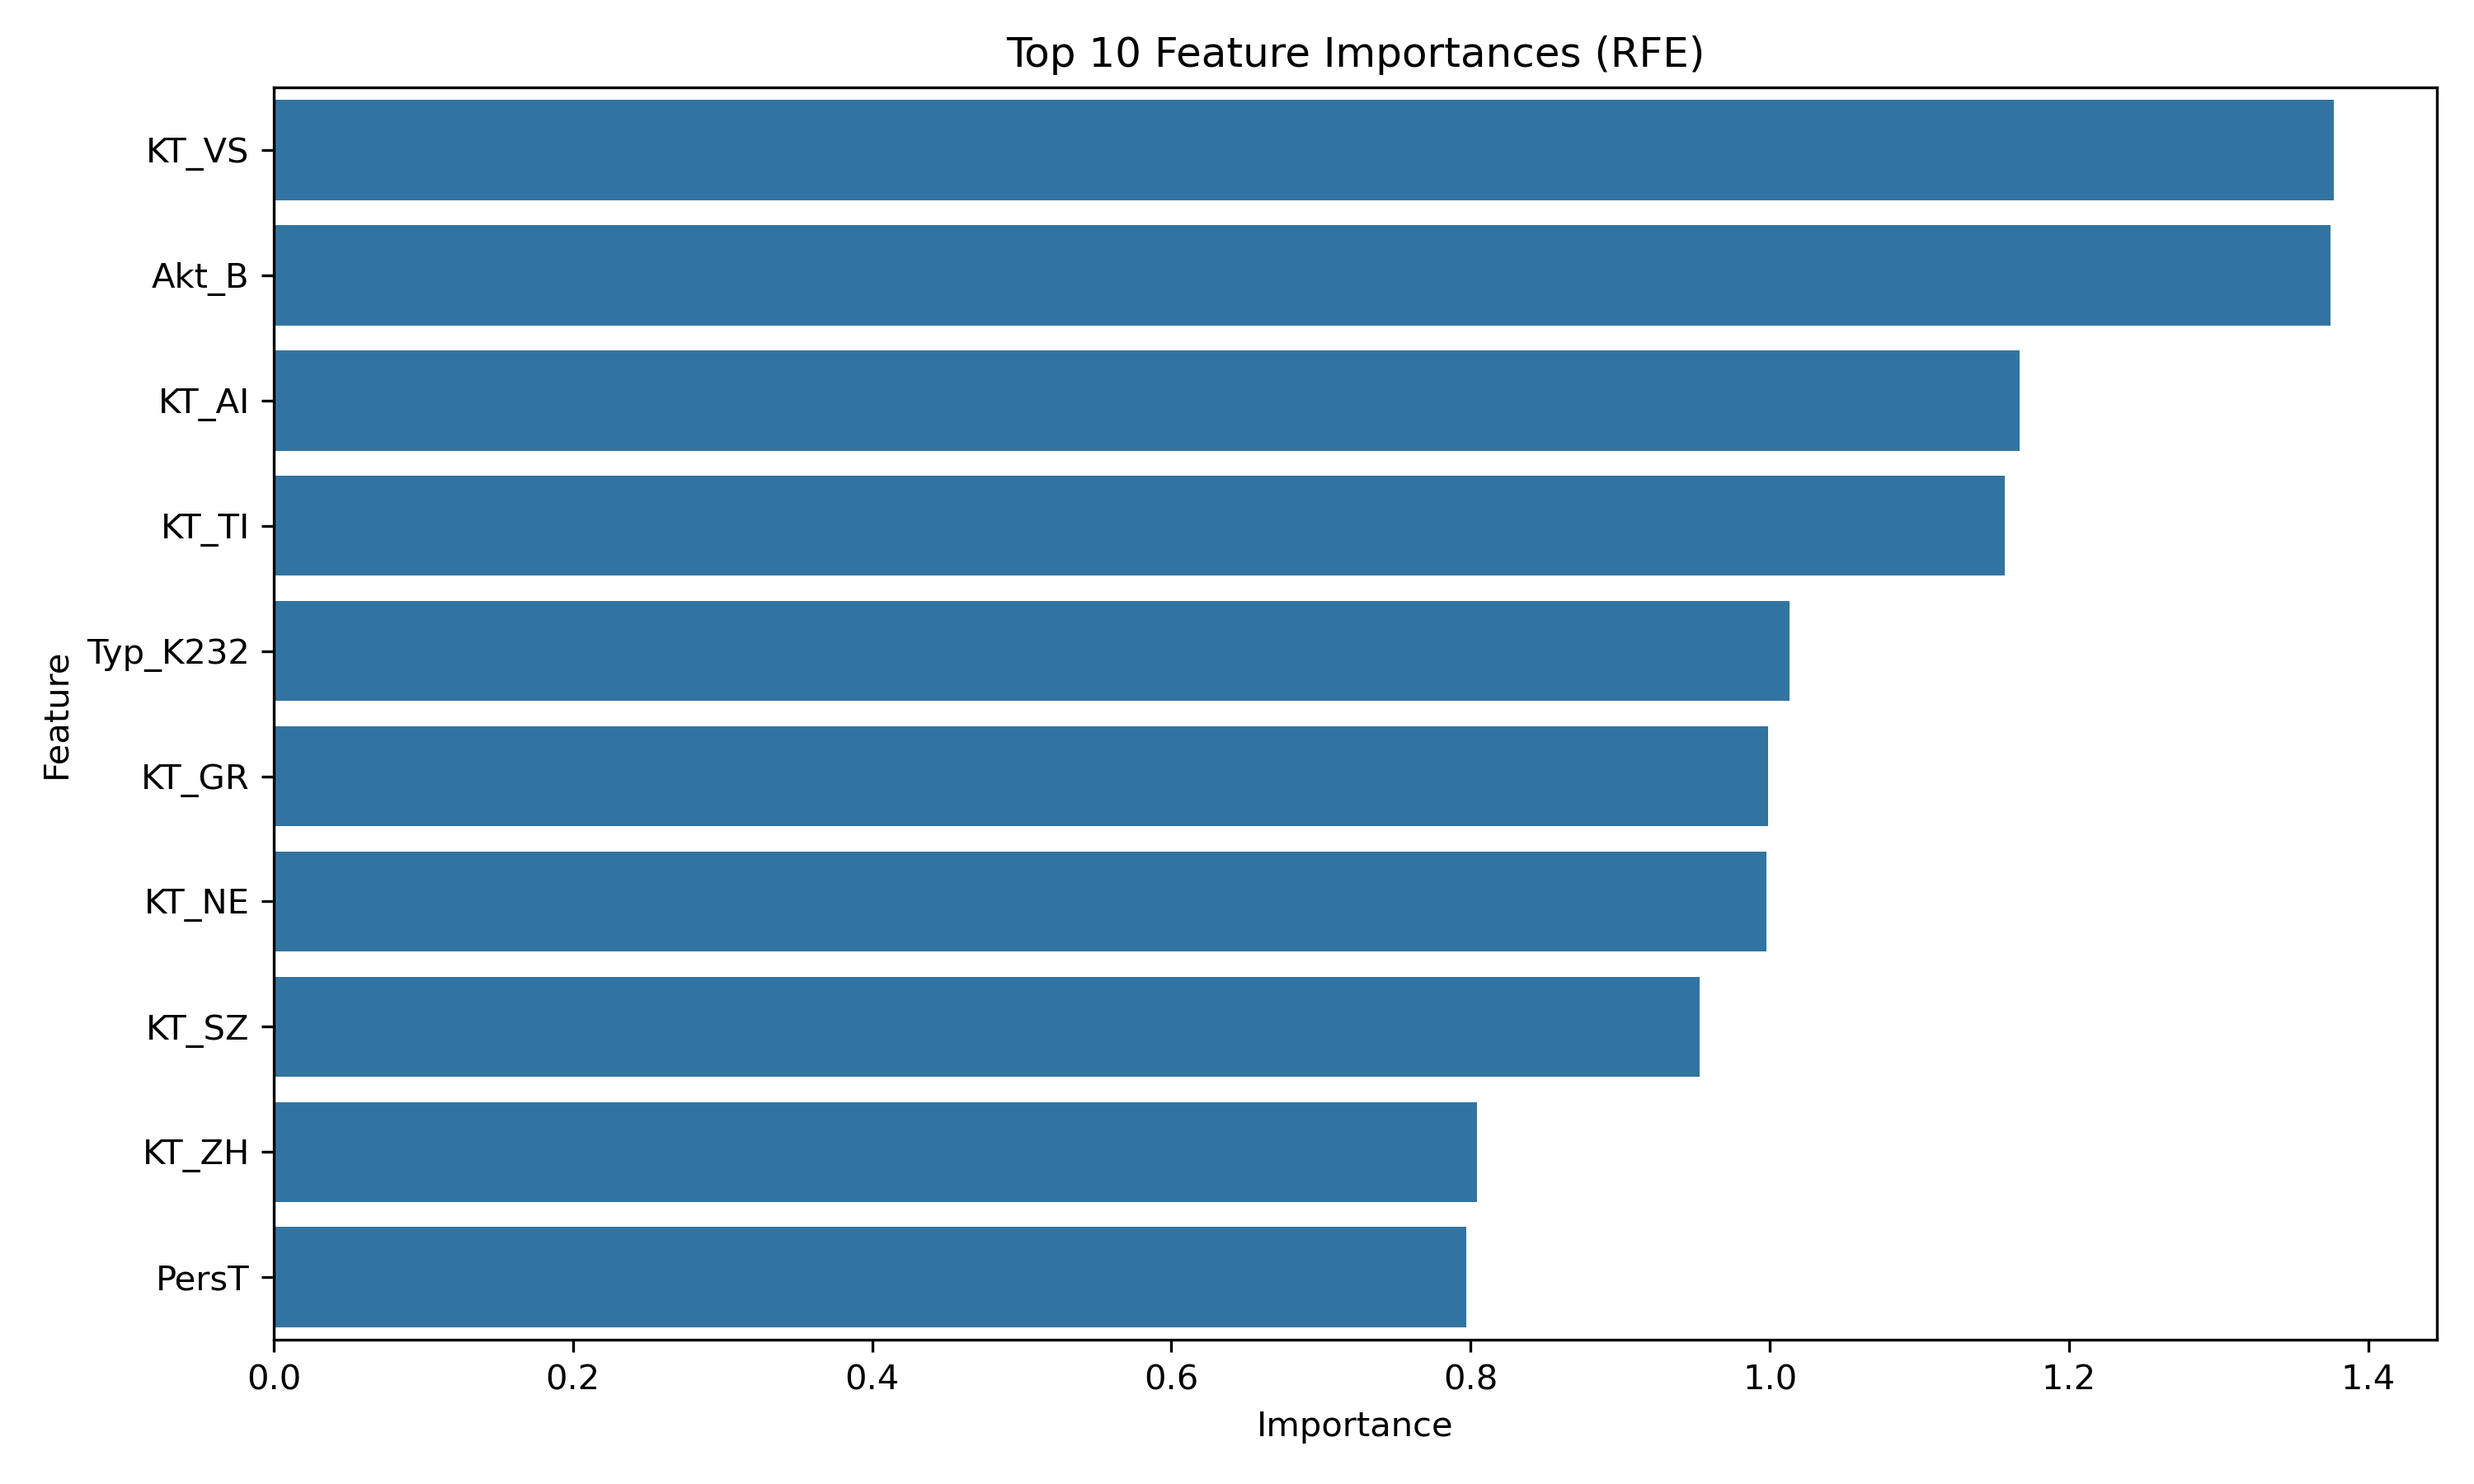
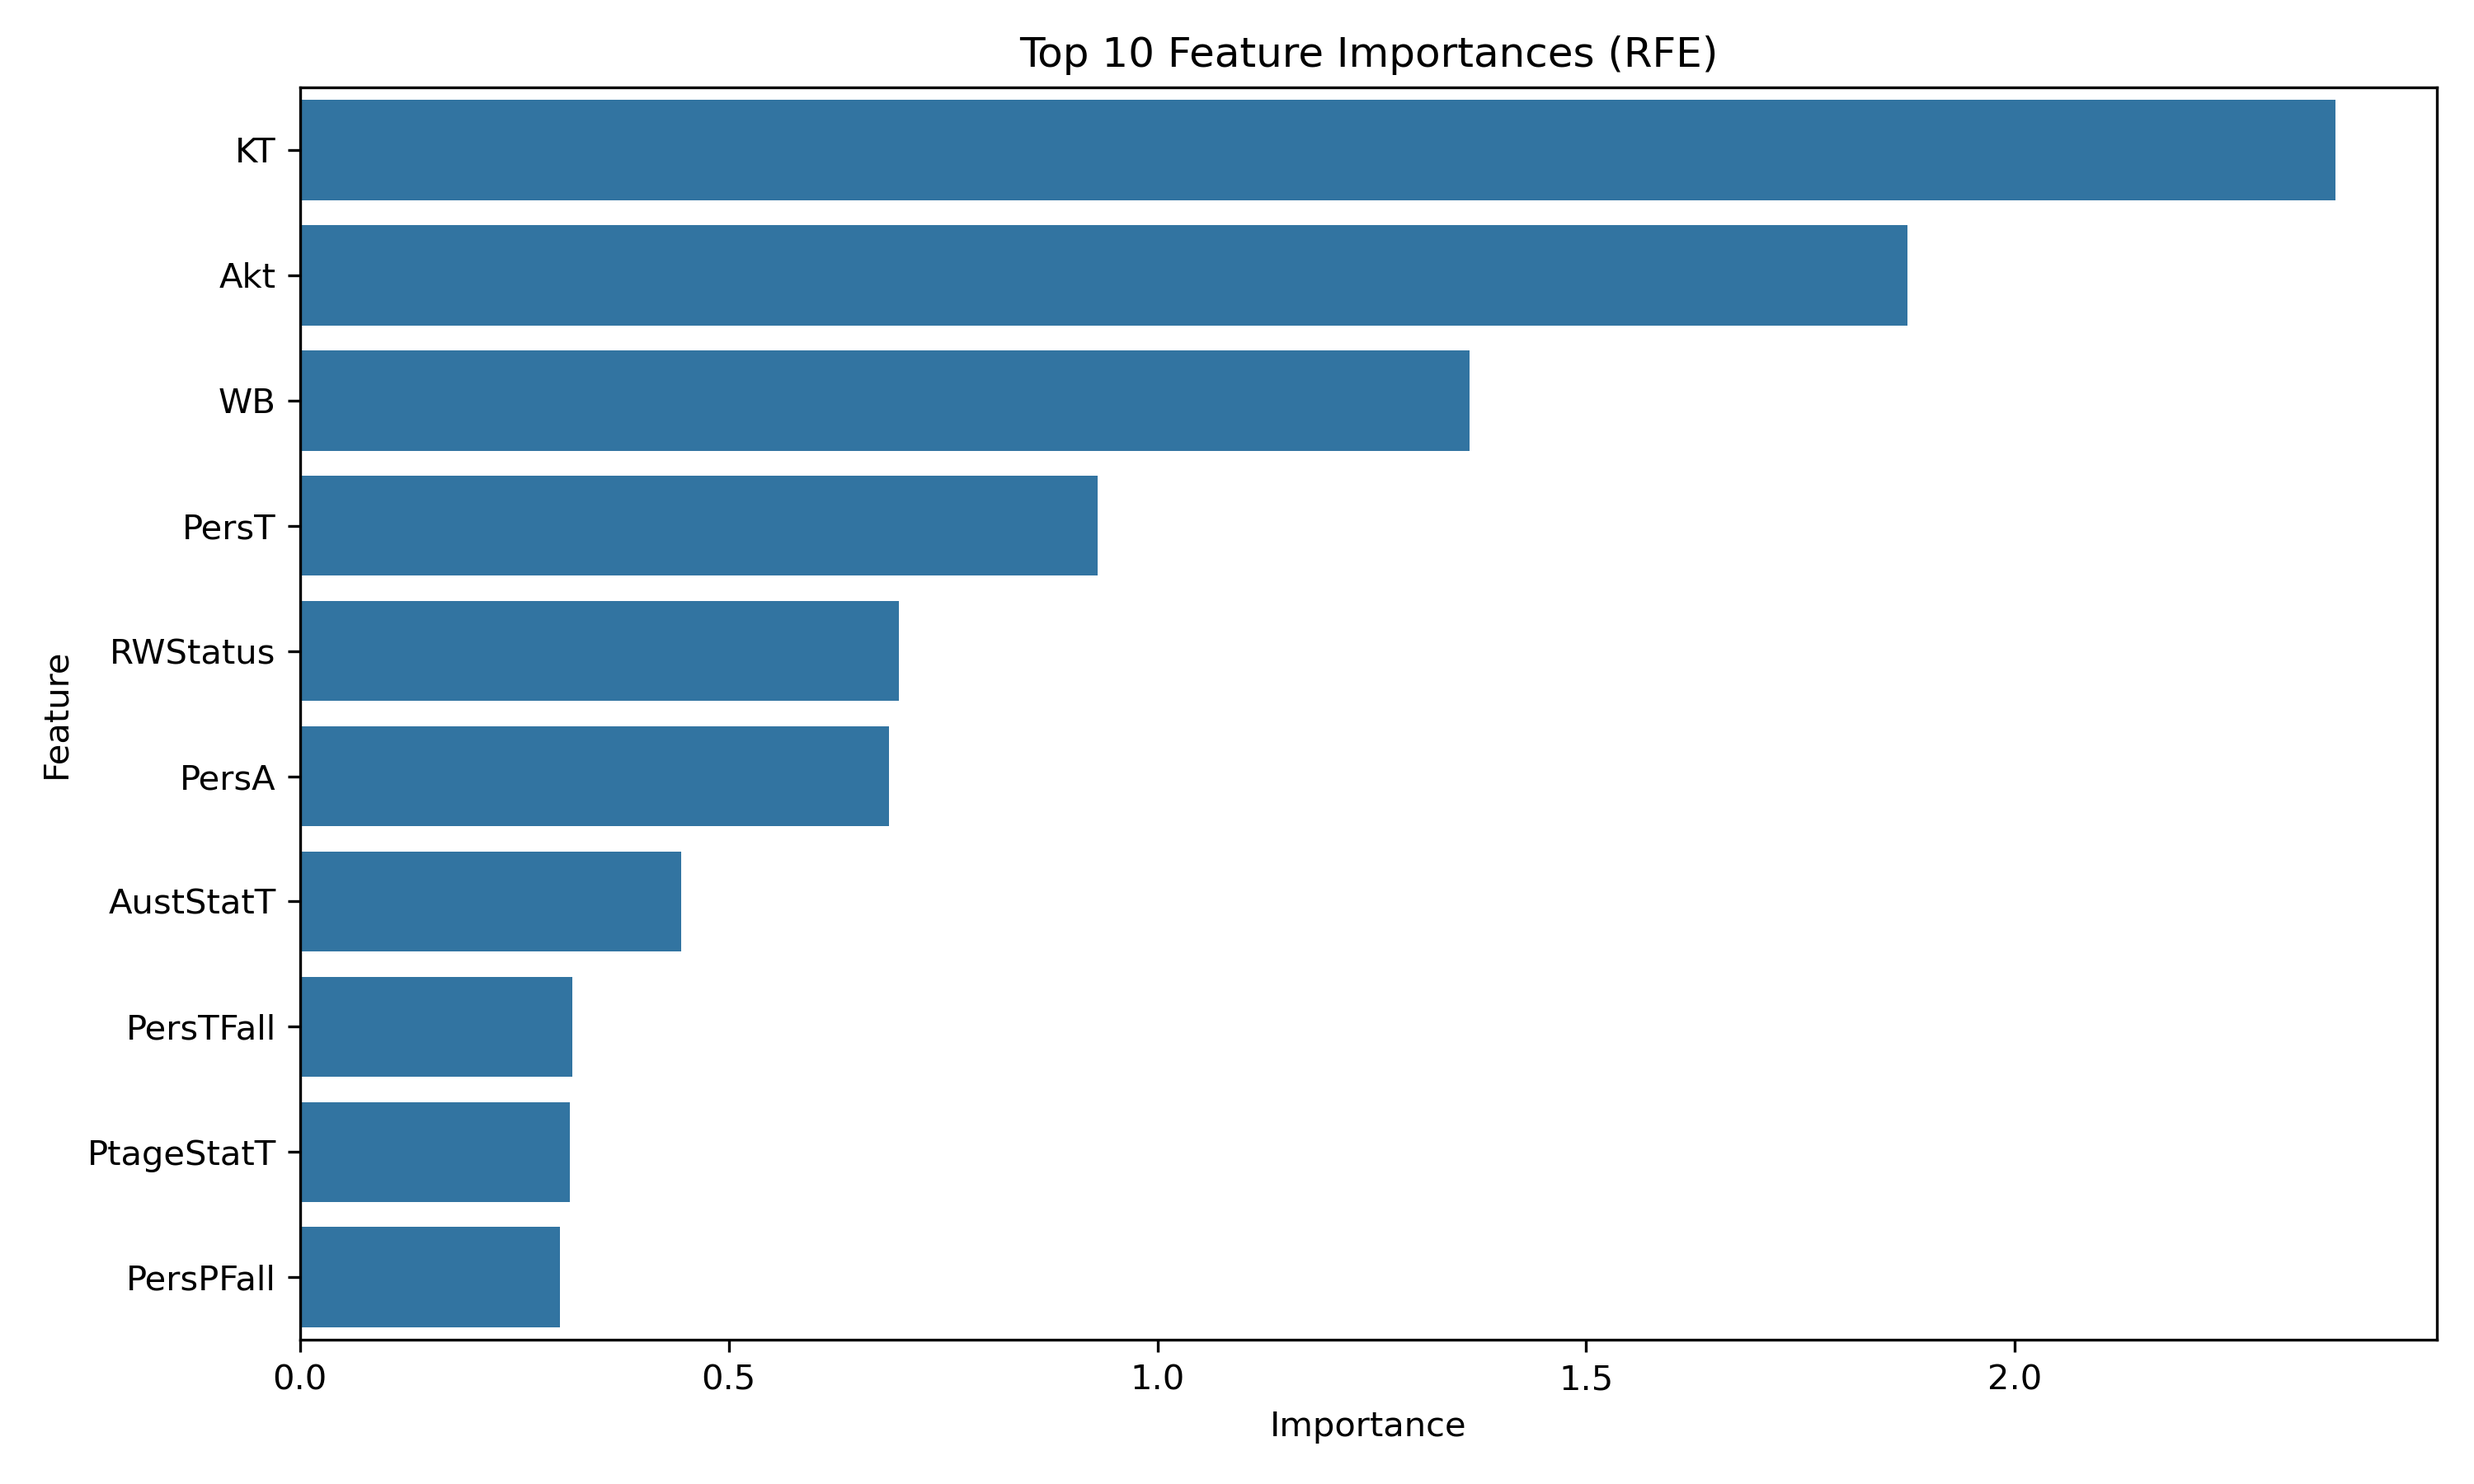
-

diff --git a/Logistic_Regression.py b/Logistic_Regression.py
@@ -15,6 +15,7 @@ from sklearn.feature_selection import SelectKBest, f_classif
 from sklearn.feature_selection import RFE
 from sklearn.feature_selection import RFECV
 import os
+from sklearn.model_selection import KFold
 
 
 
@@ -56,63 +57,77 @@ X_train[cat_features] = X_train[cat_features].astype('category')
 X_test[cat_features] = X_test[cat_features].astype('category')
 
 ######################### ONE HOT ENCODING ##################################################################
+"""
 X_train = pd.get_dummies(X_train, columns=cat_features, drop_first=True)
 
 X_test = pd.get_dummies(X_test, columns=cat_features, drop_first=True)
 X_test = X_test.reindex(columns=X_train.columns, fill_value=0)
+"""
 
-########################## ALTERNATIVE ->
+########################## ALTERNATIVE -> TARGET ENCODING ##########################################################
+def target_encode_feature(train_series, test_series, target, n_splits=5, alpha=5):
+    # Initialize KFold
+    kf = KFold(n_splits=n_splits, shuffle=True, random_state=42)
+
+    # Converting series to numpy arrays to avoid categorical dtype issues
+    train_encoded = np.zeros(len(train_series))
+    test_encoded = np.zeros(len(test_series))
+
+    # Global mean for smoothing and handling unseen categories
+    global_mean = target.mean()
+
+    # k-fold target encoding
+    for train_idx, val_idx in kf.split(train_series):
+        # Get current fold data
+        fold_train = train_series.iloc[train_idx]
+        fold_val = train_series.iloc[val_idx]
+        fold_target = target.iloc[train_idx]
+
+        # Calculating means for each category with smoothing
+        category_means = {}
+        for category in fold_train.unique():
+            cat_idx = fold_train == category
+            n = cat_idx.sum()
+            cat_mean = fold_target[cat_idx].mean()
+            # Apply smoothing
+            category_means[category] = (cat_mean * n + global_mean * alpha) / (n + alpha)
+
+        #Apply encoding
+        for category, mean_value in category_means.items():
+            train_encoded[val_idx[fold_val == category]] = mean_value
+        # Fill unseen categories with global mean
+        train_encoded[val_idx[~fold_val.isin(category_means.keys())]] = global_mean
+
+    # Encode test set using all training data
+    category_means = {}
+    for category in train_series.unique():
+        cat_idx = train_series == category
+        n = cat_idx.sum()
+        cat_mean = target[cat_idx].mean()
+        category_means[category] = (cat_mean * n + global_mean * alpha) / (n + alpha)
+
+    # Apply encoding to test set
+    for category, mean_value in category_means.items():
+        test_encoded[test_series == category] = mean_value
+    # Fill unseen categories with global mean
+    test_encoded[~test_series.isin(category_means.keys())] = global_mean
+
+    return train_encoded, test_encoded
 
 
-
+# Apply target encoding to each categorical feature
+for feature in cat_features:
+    X_train[feature], X_test[feature] = target_encode_feature(
+        X_train[feature],
+        X_test[feature],
+        y_train
+    )
 
 #######################  SCALING (after splitting!!) ###############################################################
 sc = StandardScaler()
 X_train[num_features] = sc.fit_transform(X_train[num_features])
 X_test[num_features]  = sc.transform(X_test[num_features])
 
-""""
-######################## ONE HOT ENCODING ##############################################################################
-features_encoded = pd.get_dummies(data[features], columns=cat_features, drop_first=True)
-cat_features_encoded = [col for col in features_encoded.columns if any(orig in col for orig in cat_features)]
-
-X = features_encoded
-y = data[label]
-
-stratify_col = y
-
-#for all years
-if current_year == "all":
-    y2 = data["JAHR"]
-    stratify_col = y.astype(str) + "_" + y2.astype(str)
-
-
-
-####################### SPLITTING DATA ################################################################################
-X_train, X_test, y_train, y_test = train_test_split(
-    X, y, test_size=0.2, random_state=10, stratify= stratify_col)  #for all years also stratify years
-
-
-####################### HANDLING MISSING DATA #########################################################################
-
-#Filling Categorical Columns
-for n in cat_features_encoded:
-    X_train[n] = X_train[n].fillna("NA")
-
-#Filling Numeric Columns
-for i in X_train[num_features]:
-    X_train[i] = X_train[i].fillna(X_train[i].mean())
-
-#Filling Numeric Columns in X_test
-for j in X_train[num_features]:  # To ensure consistency with X_train's mean
-    X_test[j] = X_test[j].fillna(X_train[j].mean())
-
-
-##################### SCALING (after splitting!!) ######################################################################
-sc = StandardScaler()
-X_train[num_features] = sc.fit_transform(X_train[num_features])
-X_test[num_features]  = sc.transform(X_test[num_features])
-"""
 
 ##################### EVALUATION METRICS ###############################################################################
 def eval_Performance(y_eval, X_eval, clf, clf_name = 'My Classifier'):
